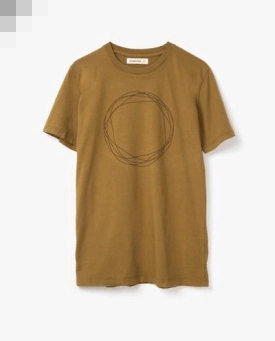
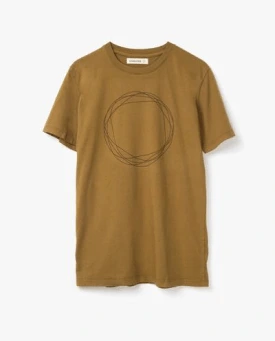
change img to .webp and delete png-files

Changed region(s): [[0.0, 0.0, 0.1164, 0.1173]]

diff --git a/index.html b/index.html
@@ -159,7 +159,7 @@
                 <div class="item__images">
                   <a class="item__link" href="#">
                     <img
-                      src="images/analog-startet-kit-img--main.png"
+                      src="images/analog-startet-kit-img--main.webp"
                       alt="analog-kit-main"
                       class="shop__card__img--main"
                     /><img
@@ -193,7 +193,7 @@
                 <div class="item__images">
                   <a class="item__link" href="#">
                     <img
-                      src="images/analog-cards--main.png"
+                      src="images/analog-cards--main.webp"
                       alt="analog-cards--main"
                       class="shop__card__img--main"
                     /><img
@@ -223,7 +223,7 @@
                 <div class="item__images">
                   <a class="item__link" href="#">
                     <img
-                      src="images/analog-travel-case--main.png"
+                      src="images/analog-travel-case--main.webp"
                       alt="analog-travel-case--main"
                       class="shop__card__img--main"
                     /><img
@@ -253,7 +253,7 @@
                 <div class="item__images">
                   <a class="item__link" href="#">
                     <img
-                      src="images/analog-card-holder--main.png"
+                      src="images/analog-card-holder--main.webp"
                       alt="analog-card-holder--main"
                       class="shop__card__img--main"
                     /><img
@@ -323,7 +323,7 @@
                 <div class="item__images">
                   <a class="item__link" href="#">
                     <img
-                      src="images/modus-operandi-artist-coll(1)--main.png"
+                      src="images/modus-operandi-artist-coll(1)--main.webp"
                       alt="modus-operandi-artist-coll(1)--main"
                       class="shop__card__img--main"
                     /><img
@@ -353,7 +353,7 @@
                 <div class="item__images">
                   <a class="item__link" href="#">
                     <img
-                      src="images/modus-operandi-artist-coll(3)--main.png"
+                      src="images/modus-operandi-artist-coll(3)--main.webp"
                       alt="modus-operandi-artist-coll(3)--main"
                       class="shop__card__img--main"
                     /><img
@@ -383,7 +383,7 @@
                 <div class="item__images">
                   <a class="item__link" href="#">
                     <img
-                      src="images/modus-operandi-artist-coll(2)--main.png"
+                      src="images/modus-operandi-artist-coll(2)--main.webp"
                       alt="modus-operandi-artist-coll(2)--main"
                       class="shop__card__img--main"
                     /><img
@@ -447,7 +447,7 @@
                       alt="circular--main"
                       class="shop__card__img--main"
                     /><img
-                      src="images/circular--second.png"
+                      src="images/circular--second.webp"
                       alt="circular--second"
                       class="shop__card__img--second"
                     />
@@ -471,11 +471,11 @@
                 <div class="item__images">
                   <a class="item__link" href="#">
                     <img
-                      src="images/facet--main.png"
+                      src="images/facet--main.webp"
                       alt="facet--main"
                       class="shop__card__img--main"
                     /><img
-                      src="images/facet--second.png"
+                      src="images/facet--second.webp"
                       alt="facet--second"
                       class="shop__card__img--second"
                     />
@@ -499,11 +499,11 @@
                 <div class="item__images">
                   <a class="item__link" href="#">
                     <img
-                      src="images/rain--main.png"
+                      src="images/rain--main.webp"
                       alt="rain--main"
                       class="shop__card__img--main"
                     /><img
-                      src="images/rain--second.png"
+                      src="images/rain--second.webp"
                       alt="rain--second"
                       class="shop__card__img--second"
                     />
@@ -590,7 +590,7 @@
                 <div class="item__images">
                   <a class="item__link" href="#">
                     <img
-                      src="images/ripeeffect--main.png"
+                      src="images/ripeeffect--main.webp"
                       alt="ripeeffect--main"
                       class="shop__card__img--main"
                     /><img
@@ -622,7 +622,7 @@
                 <div class="item__images">
                   <a class="item__link" href="#">
                     <img
-                      src="images/mousepad--main.png"
+                      src="images/mousepad--main.webp"
                       alt="mousepad--main"
                       class="shop__card__img--main"
                     /><img
@@ -659,7 +659,7 @@
                 <div class="item__images">
                   <a class="item__link" href="#">
                     <img
-                      src="images/shoes--main.png"
+                      src="images/shoes--main.webp"
                       alt="shoes--main"
                       class="shop__card__img--main"
                     /><img
@@ -694,7 +694,7 @@
                 <div class="item__images">
                   <a class="item__link" href="#">
                     <img
-                      src="images/essential-tee--main.png"
+                      src="images/essential-tee--main.webp"
                       alt="essential-tee--main"
                       class="shop__card__img--main"
                     /><img
@@ -731,7 +731,7 @@
                 <div class="item__images">
                   <a class="item__link" href="#">
                     <img
-                      src="images/coasters--main.png"
+                      src="images/coasters--main.webp"
                       alt="coasters--main"
                       class="shop__card__img--main"
                     /><img
